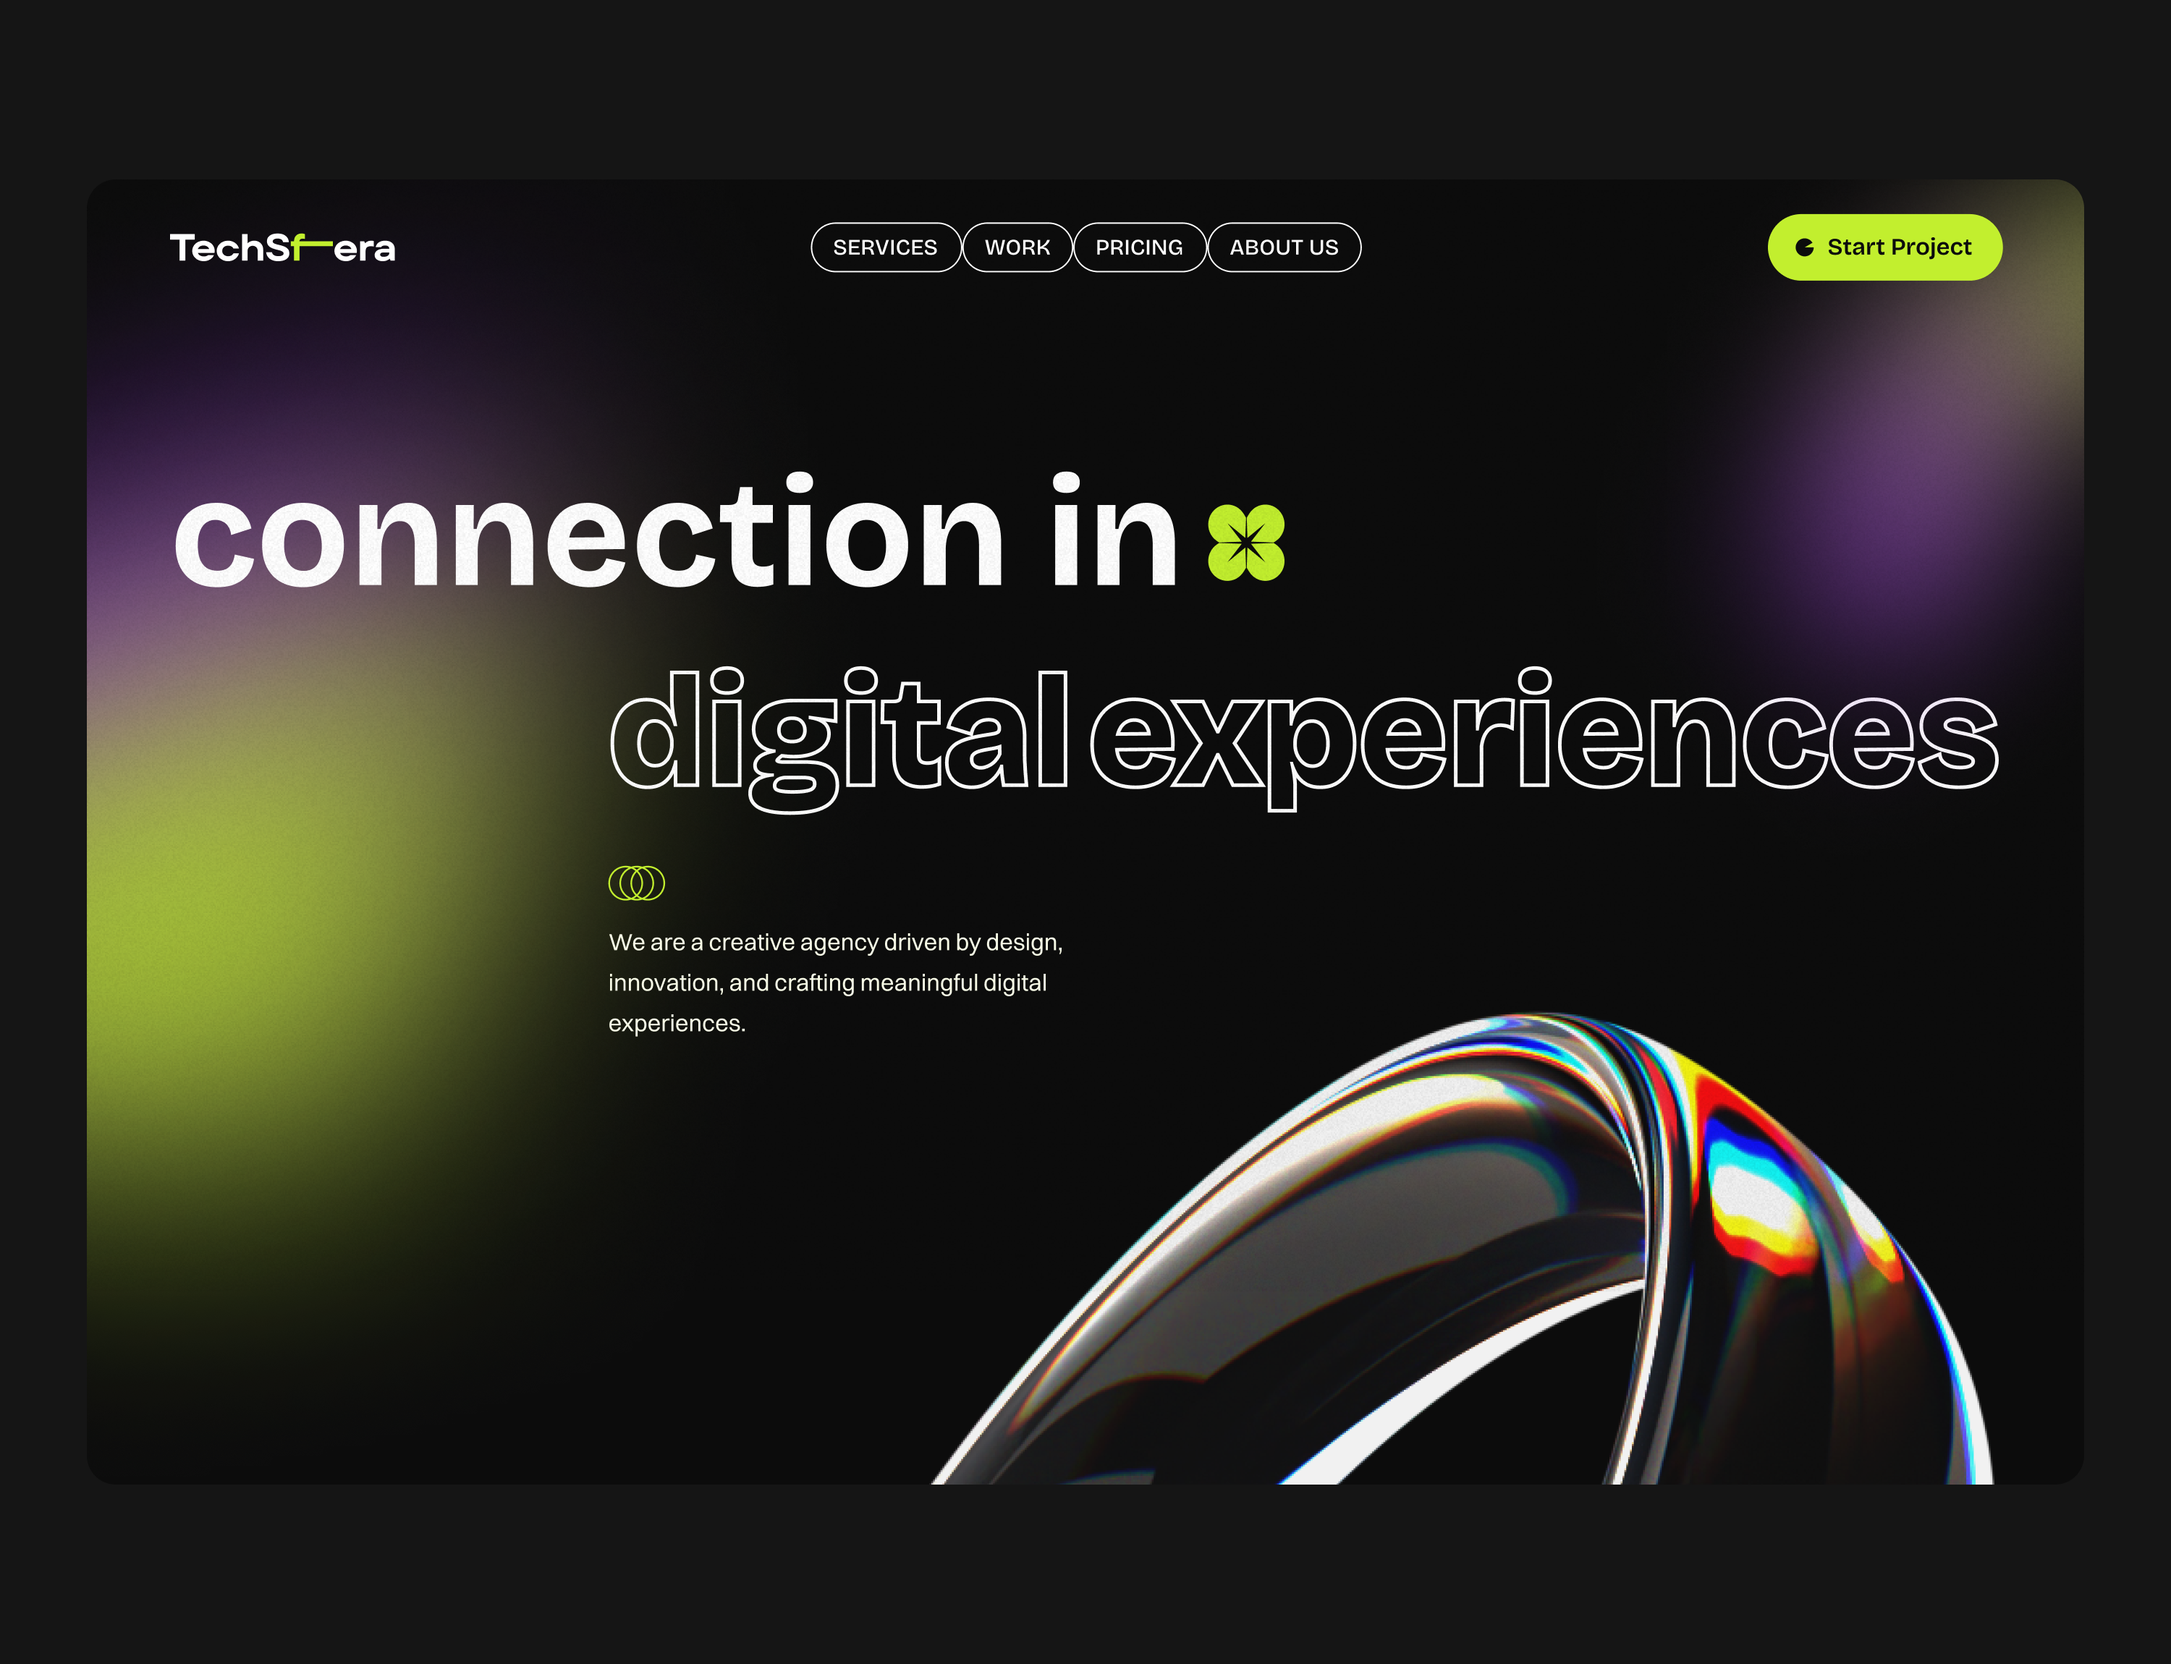
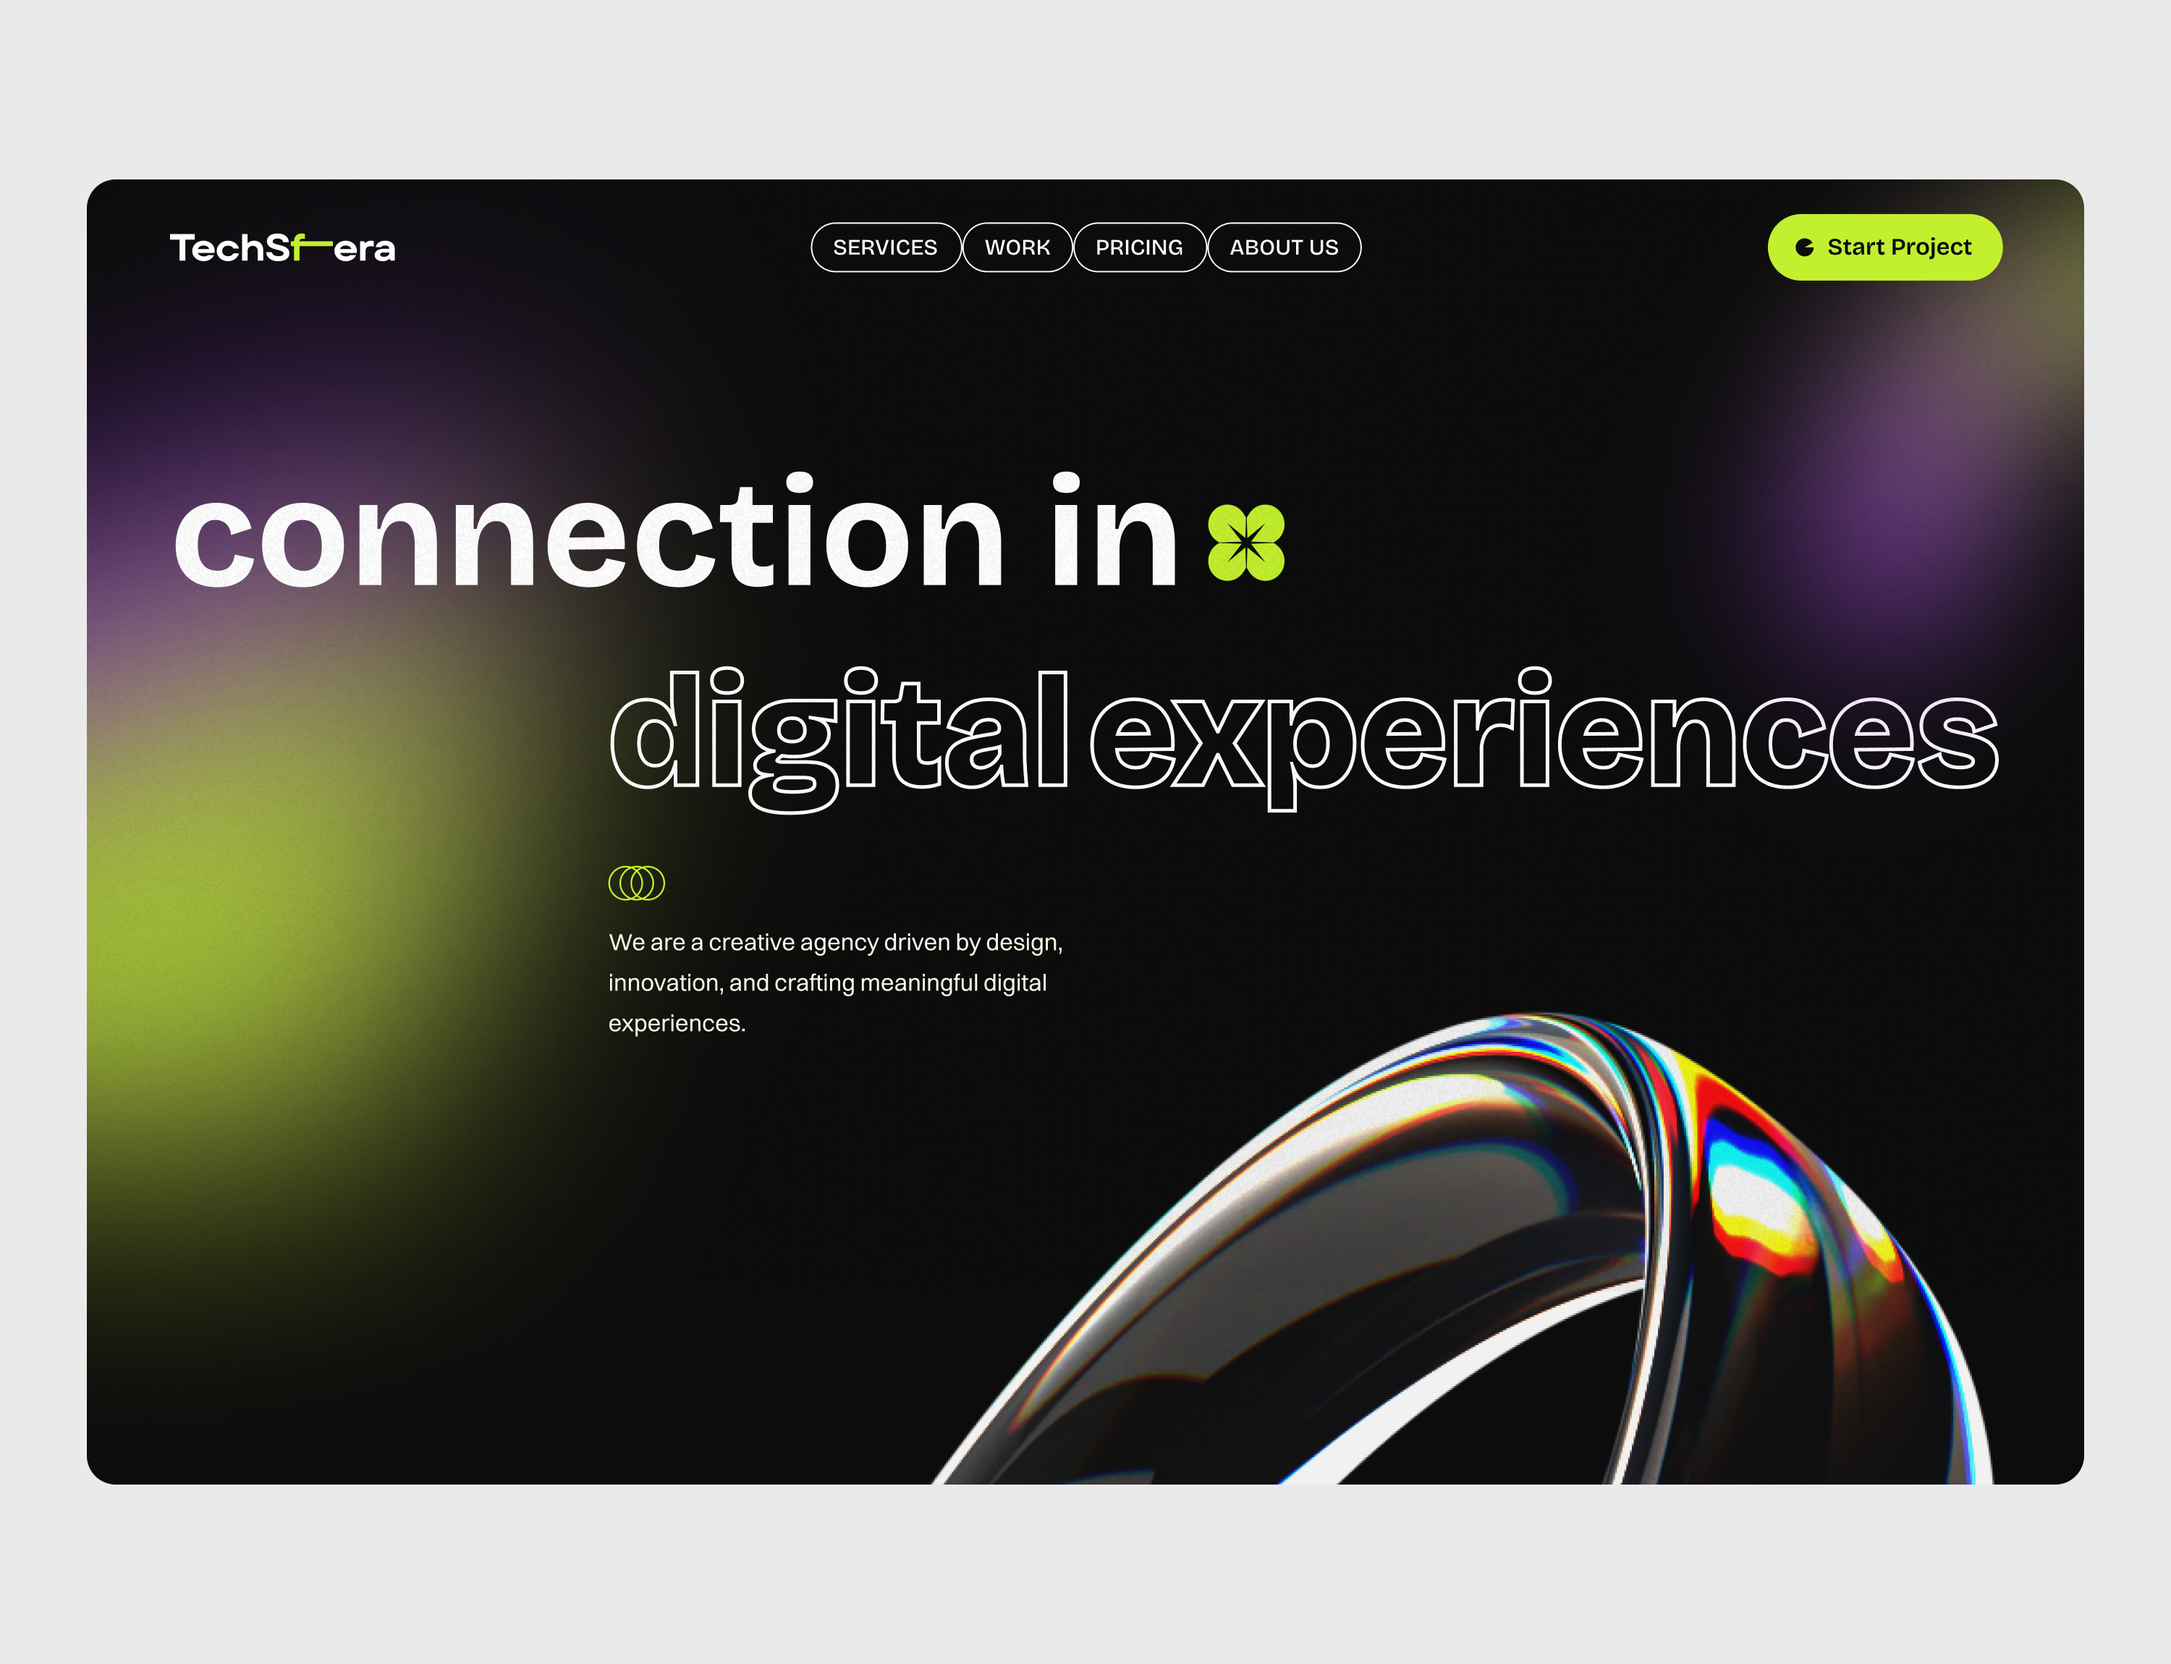
Update proto-03, proto-04, and proto-06 work images

Changed region(s): [[0.0, 0.0, 1.0, 1.0]]

diff --git a/src/components/SelectedWorks.tsx b/src/components/SelectedWorks.tsx
@@ -4,13 +4,13 @@ import React, { useRef, useState, useEffect, useCallback } from "react";
 import Image from "next/image";
 
 const WORK_ITEMS = [
-  { id: "proto-01", title: "Proto. 01", image: "/assets/works/proto-01.png?v=8" },
-  { id: "proto-02", title: "Proto. 02", image: "/assets/works/proto-02.png?v=8" },
-  { id: "proto-03", title: "Proto. 03", image: "/assets/works/proto-03.png?v=8" },
-  { id: "proto-04", title: "Proto. 04", image: "/assets/works/proto-04.png?v=8" },
-  { id: "proto-05", title: "Proto. 05", image: "/assets/works/proto-05.png?v=8" },
-  { id: "proto-06", title: "Proto. 06", image: "/assets/works/proto-06.png?v=8" },
-  { id: "proto-07", title: "Proto. 07", image: "/assets/works/proto-07.png?v=8" },
+  { id: "proto-01", title: "Proto. 01", image: "/assets/works/proto-01.png?v=9" },
+  { id: "proto-02", title: "Proto. 02", image: "/assets/works/proto-02.png?v=9" },
+  { id: "proto-03", title: "Proto. 03", image: "/assets/works/proto-03.png?v=9" },
+  { id: "proto-04", title: "Proto. 04", image: "/assets/works/proto-04.png?v=9" },
+  { id: "proto-05", title: "Proto. 05", image: "/assets/works/proto-05.png?v=9" },
+  { id: "proto-06", title: "Proto. 06", image: "/assets/works/proto-06.png?v=9" },
+  { id: "proto-07", title: "Proto. 07", image: "/assets/works/proto-07.png?v=9" },
 ];
 
 export function SelectedWorks() {
